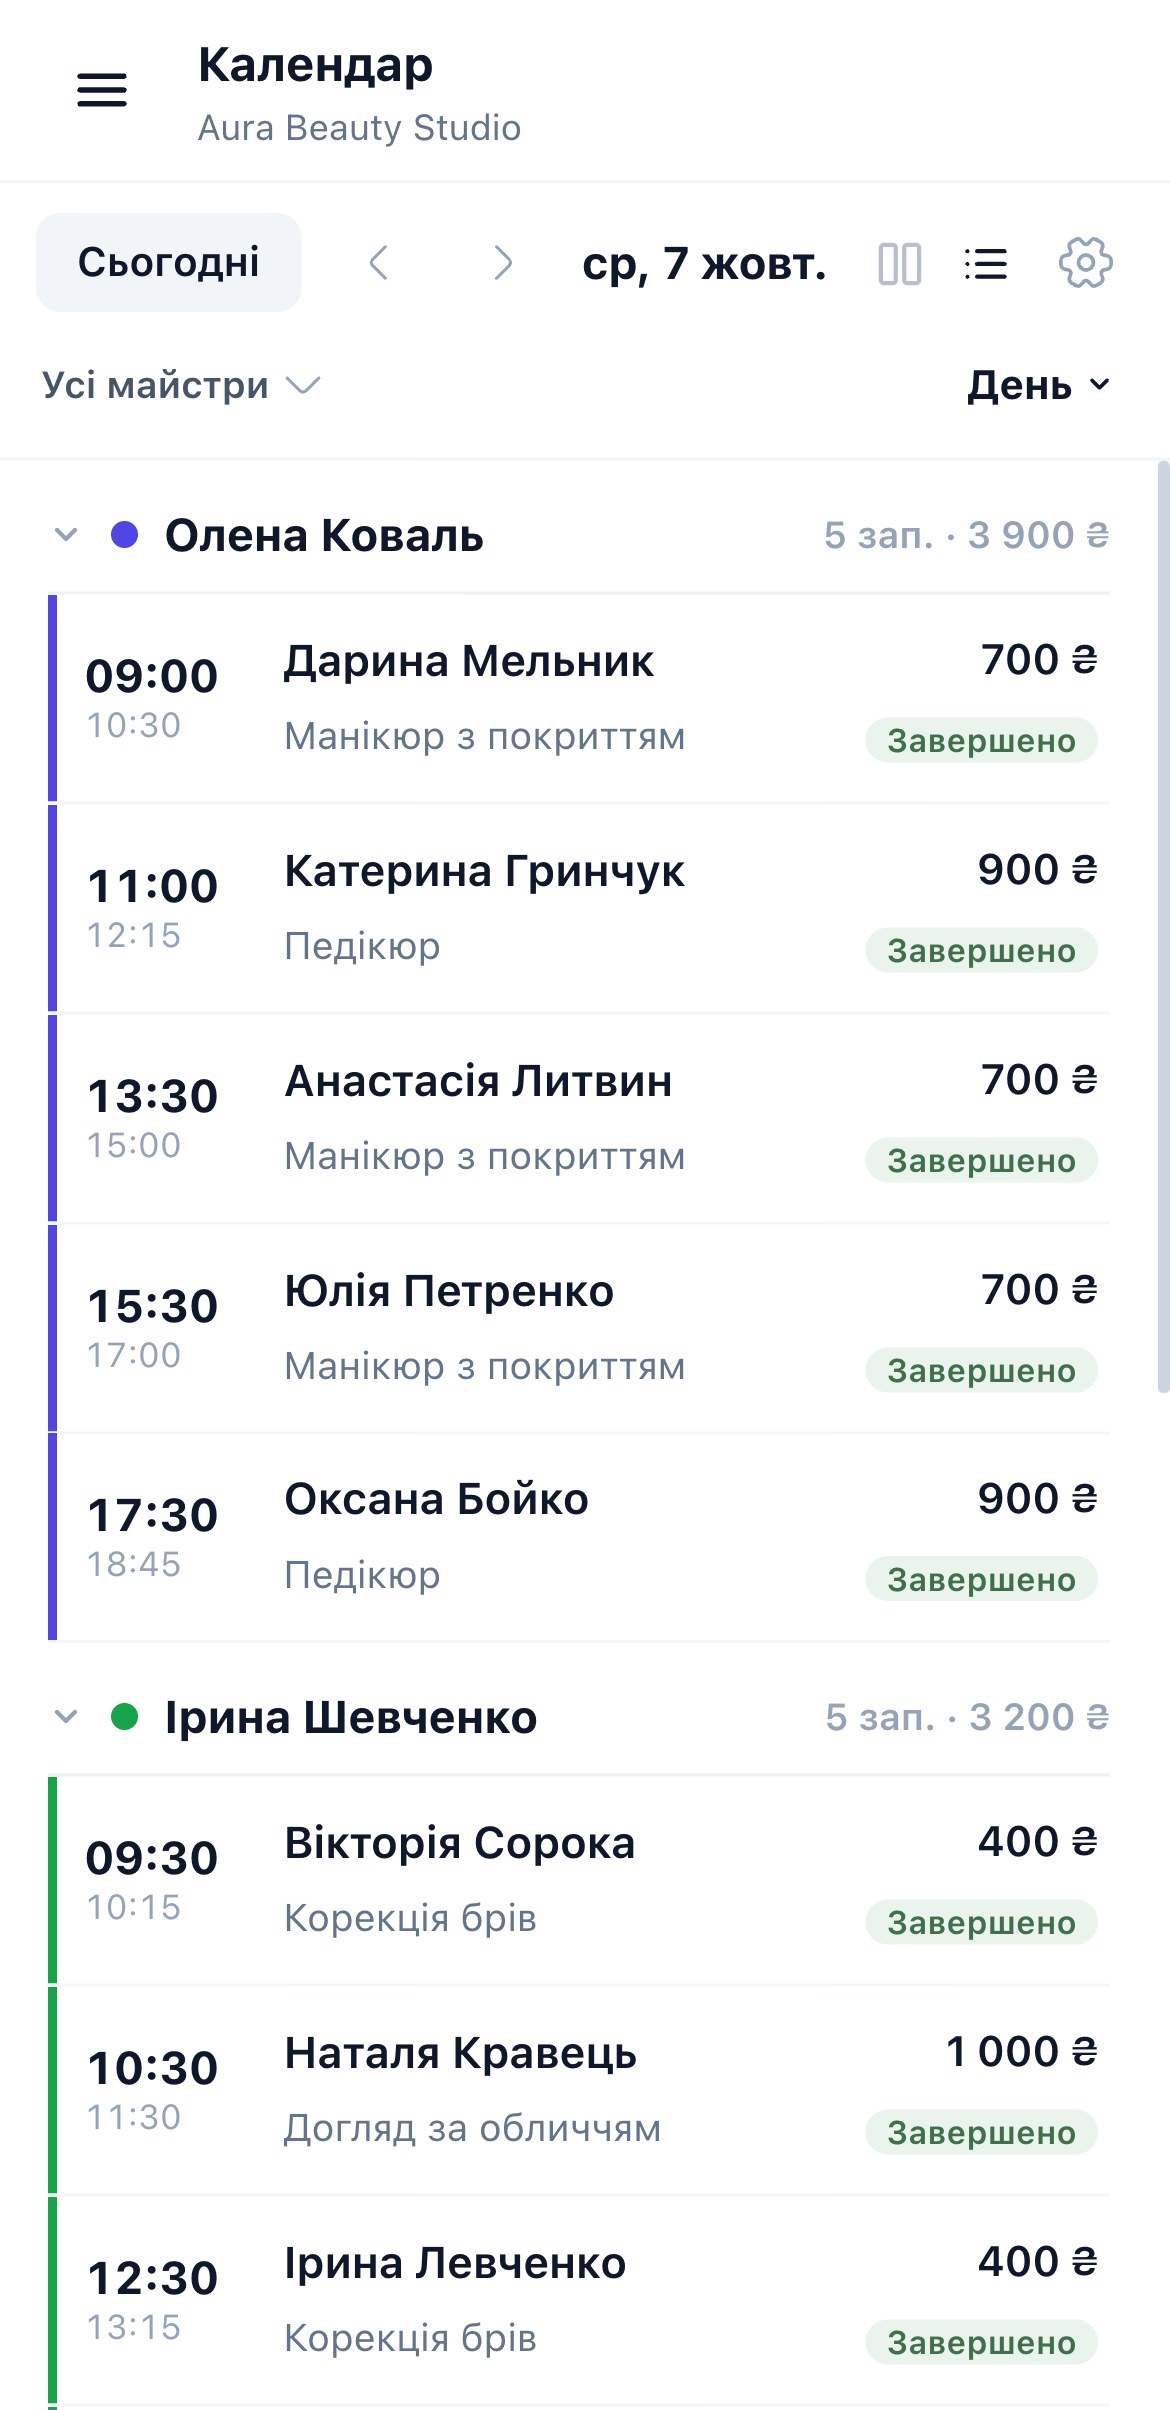
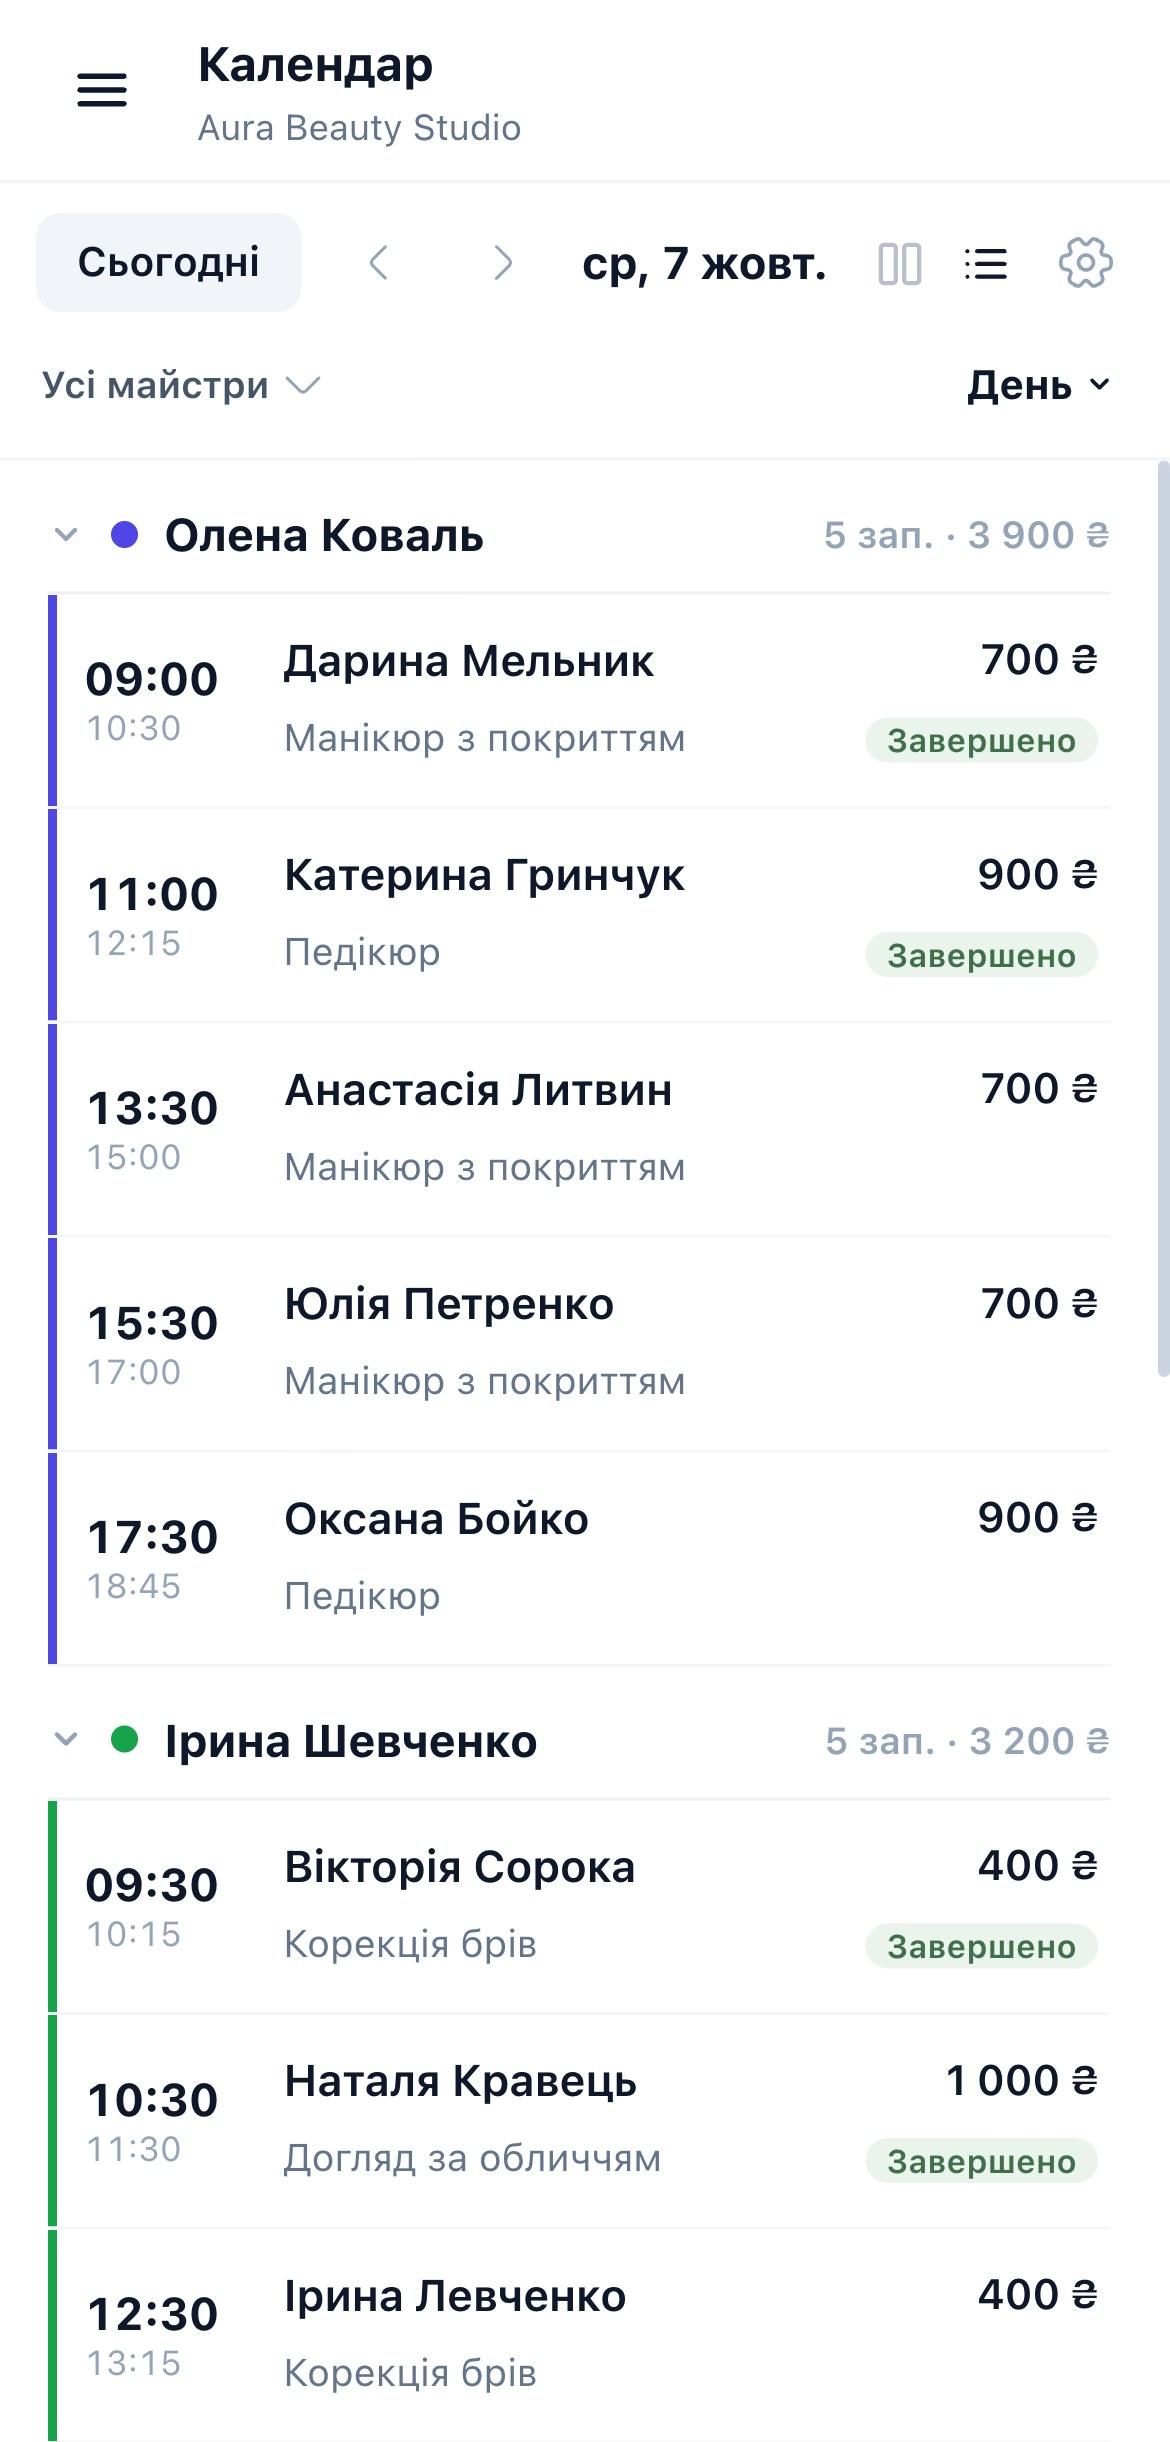
Home showcase: realistic day (past visits done, next ones upcoming), sidebar and to-do column closed, closer crop; phone list rows of equal height

diff --git a/bookera-frontend/src/components/home/BusinessShowcase.tsx b/bookera-frontend/src/components/home/BusinessShowcase.tsx
@@ -61,11 +61,11 @@ export default function BusinessShowcase() {
         <div className="bz-stage" aria-hidden>
           <div className="bz-browser bz-a" style={{ ['--d' as string]: '0.15s' }}>
             <div className="bz-bar"><i /><i /><i /></div>
-            <Image src="/home/cabinet-calendar-v2.jpg" alt="" width={2880} height={1879} sizes="(max-width: 1100px) 90vw, 640px" className="bz-shot" />
+            <Image src="/home/cabinet-calendar-v2.jpg" alt="" width={2950} height={1906} sizes="(max-width: 1100px) 90vw, 640px" className="bz-shot" />
           </div>
           <div className="bz-phone bz-a" style={{ ['--d' as string]: '0.35s' }}>
             <div className="bz-screen">
-              <Image src="/home/cabinet-mobile-v2.jpg" alt="" width={1170} height={2410} sizes="200px" className="bz-shot" />
+              <Image src="/home/cabinet-mobile-v2.jpg" alt="" width={1170} height={2442} sizes="200px" className="bz-shot" />
             </div>
           </div>
         </div>

diff --git a/bookera-frontend/src/components/cabinet/CalendarTab.tsx b/bookera-frontend/src/components/cabinet/CalendarTab.tsx
@@ -1294,7 +1294,7 @@ const handleSaveShifts = async () => {
           .cl-client { grid-area: client; }
           .cl-svc { grid-area: svc; }
           .cl-price { grid-area: price; }
-          .cl-status { grid-area: status; justify-self: end; }
+          .cl-status { grid-area: status; justify-self: end; min-height: 1.6rem; }
         }
         @media (min-width: 861px) and (max-width: 1600px) { .cal-toolbar__count { display: none !important; } }
         .cal-toolbar__right { display: none !important; }
